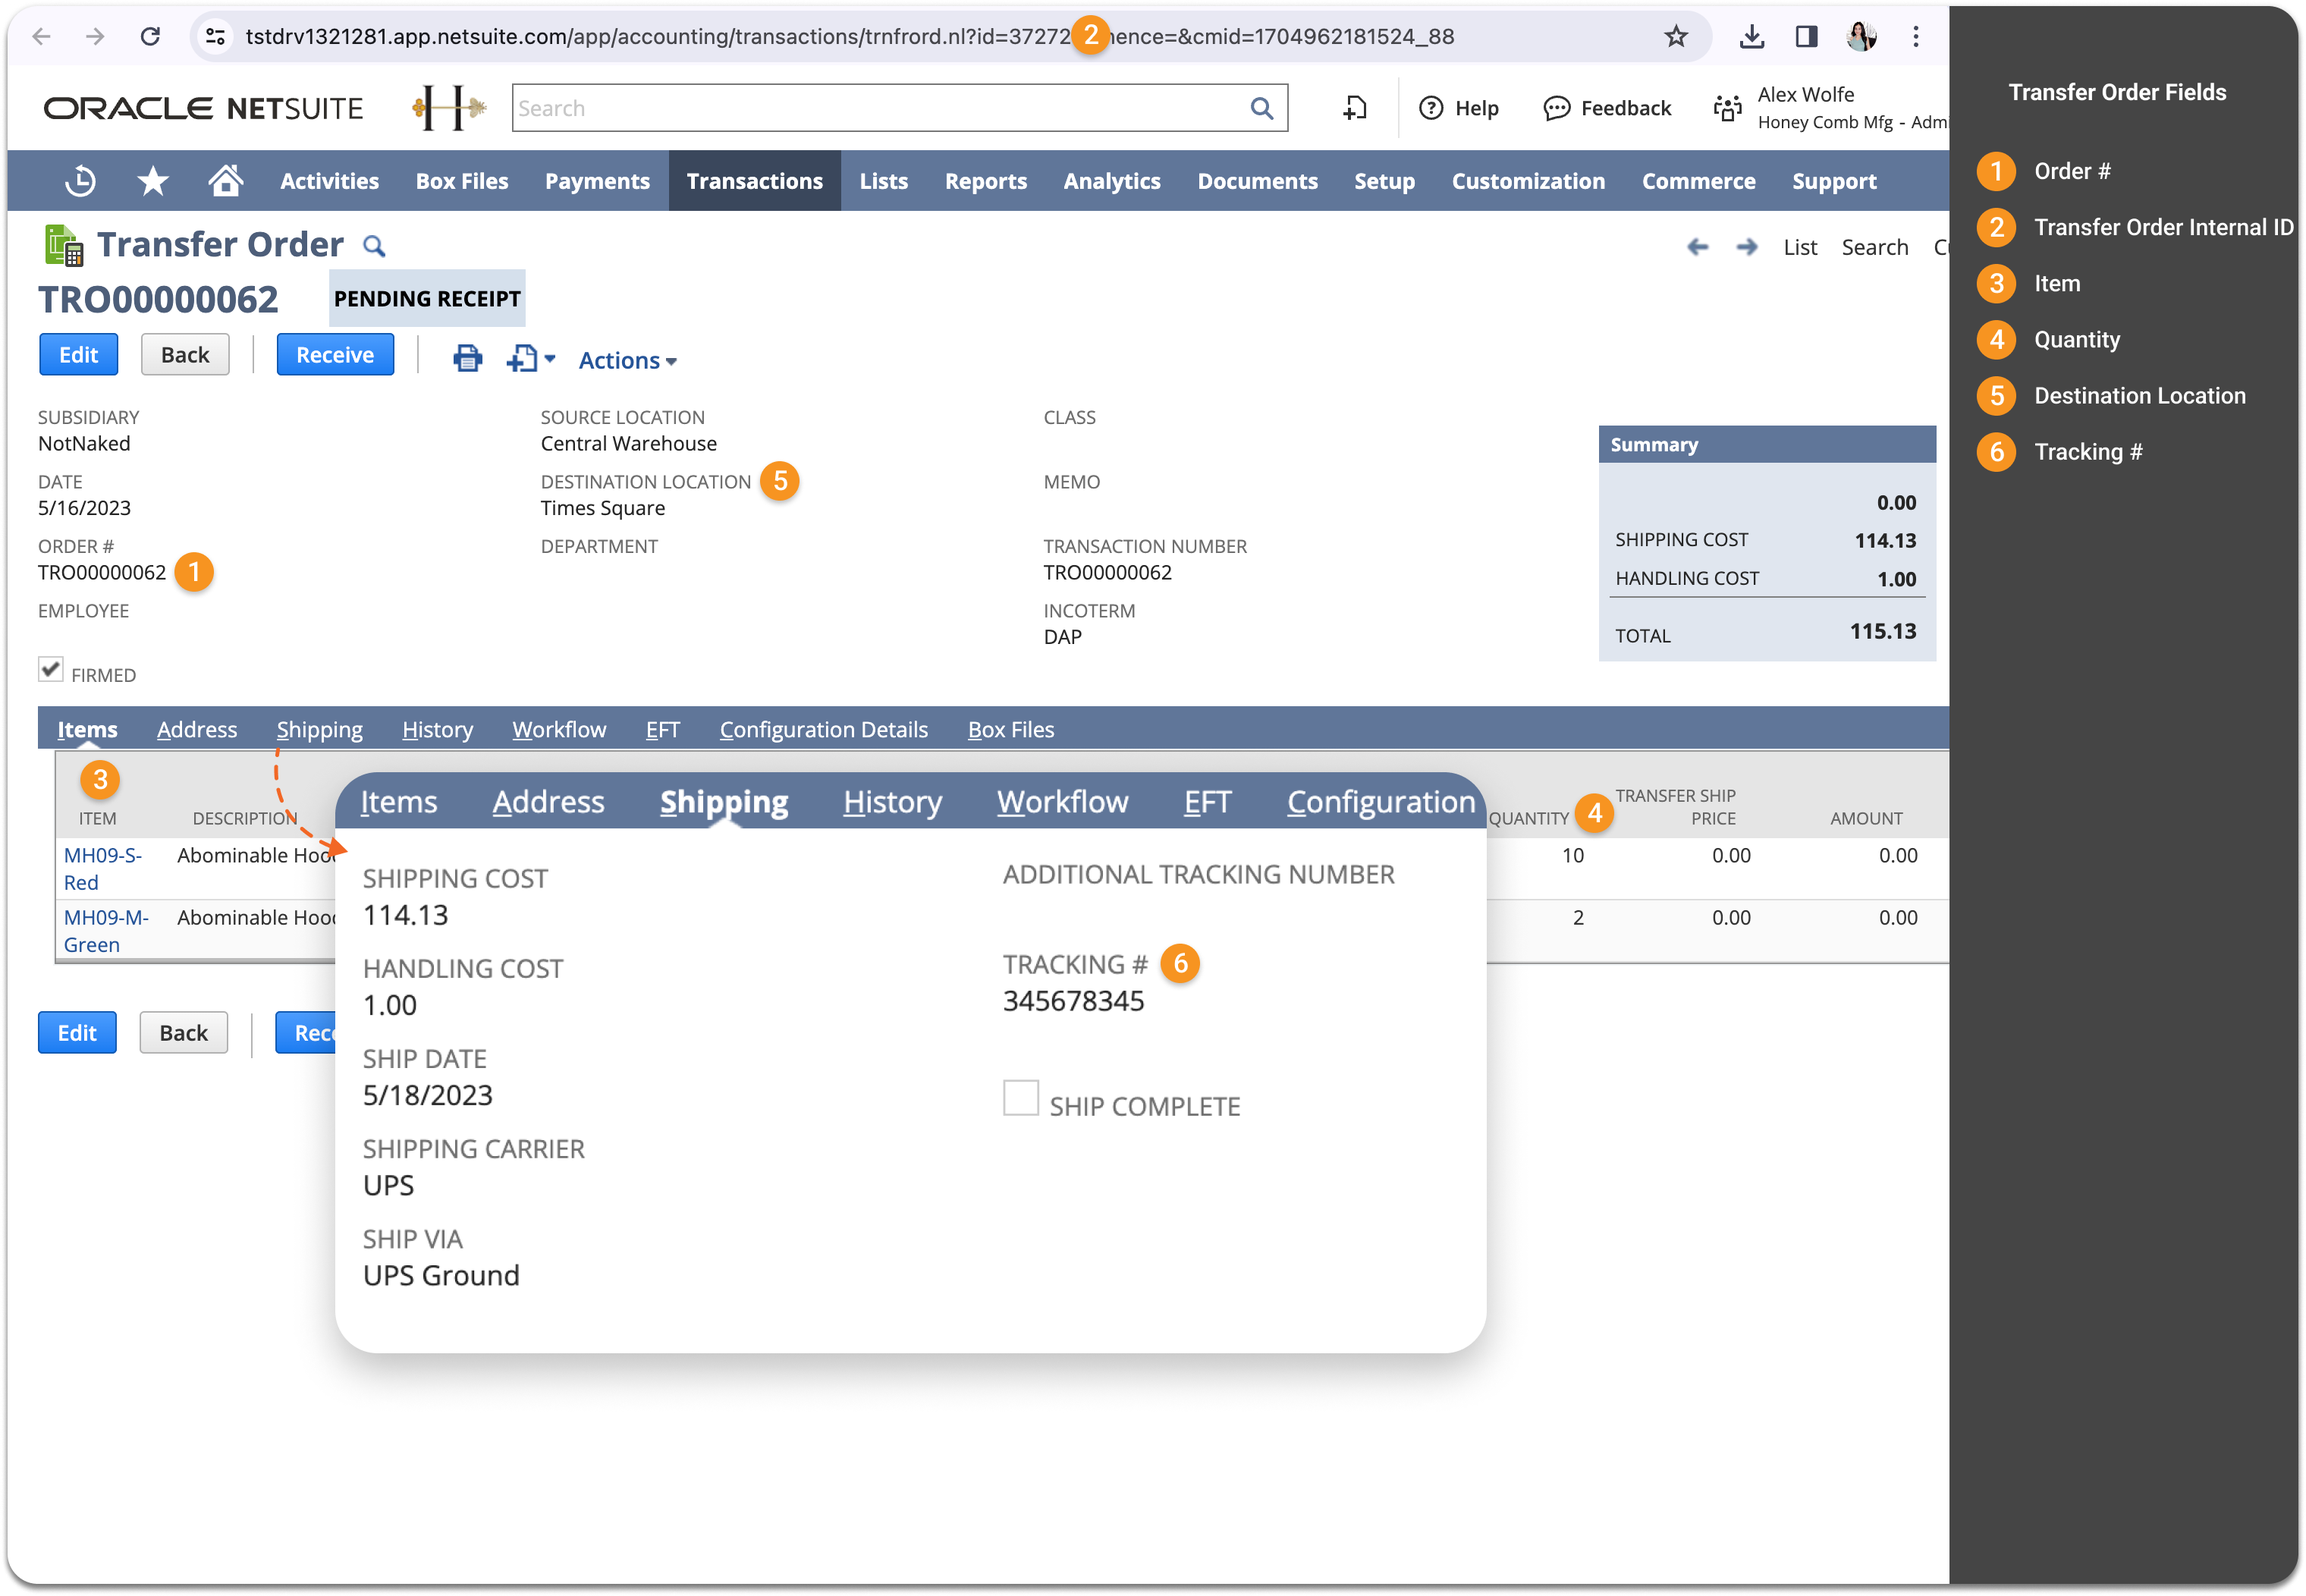
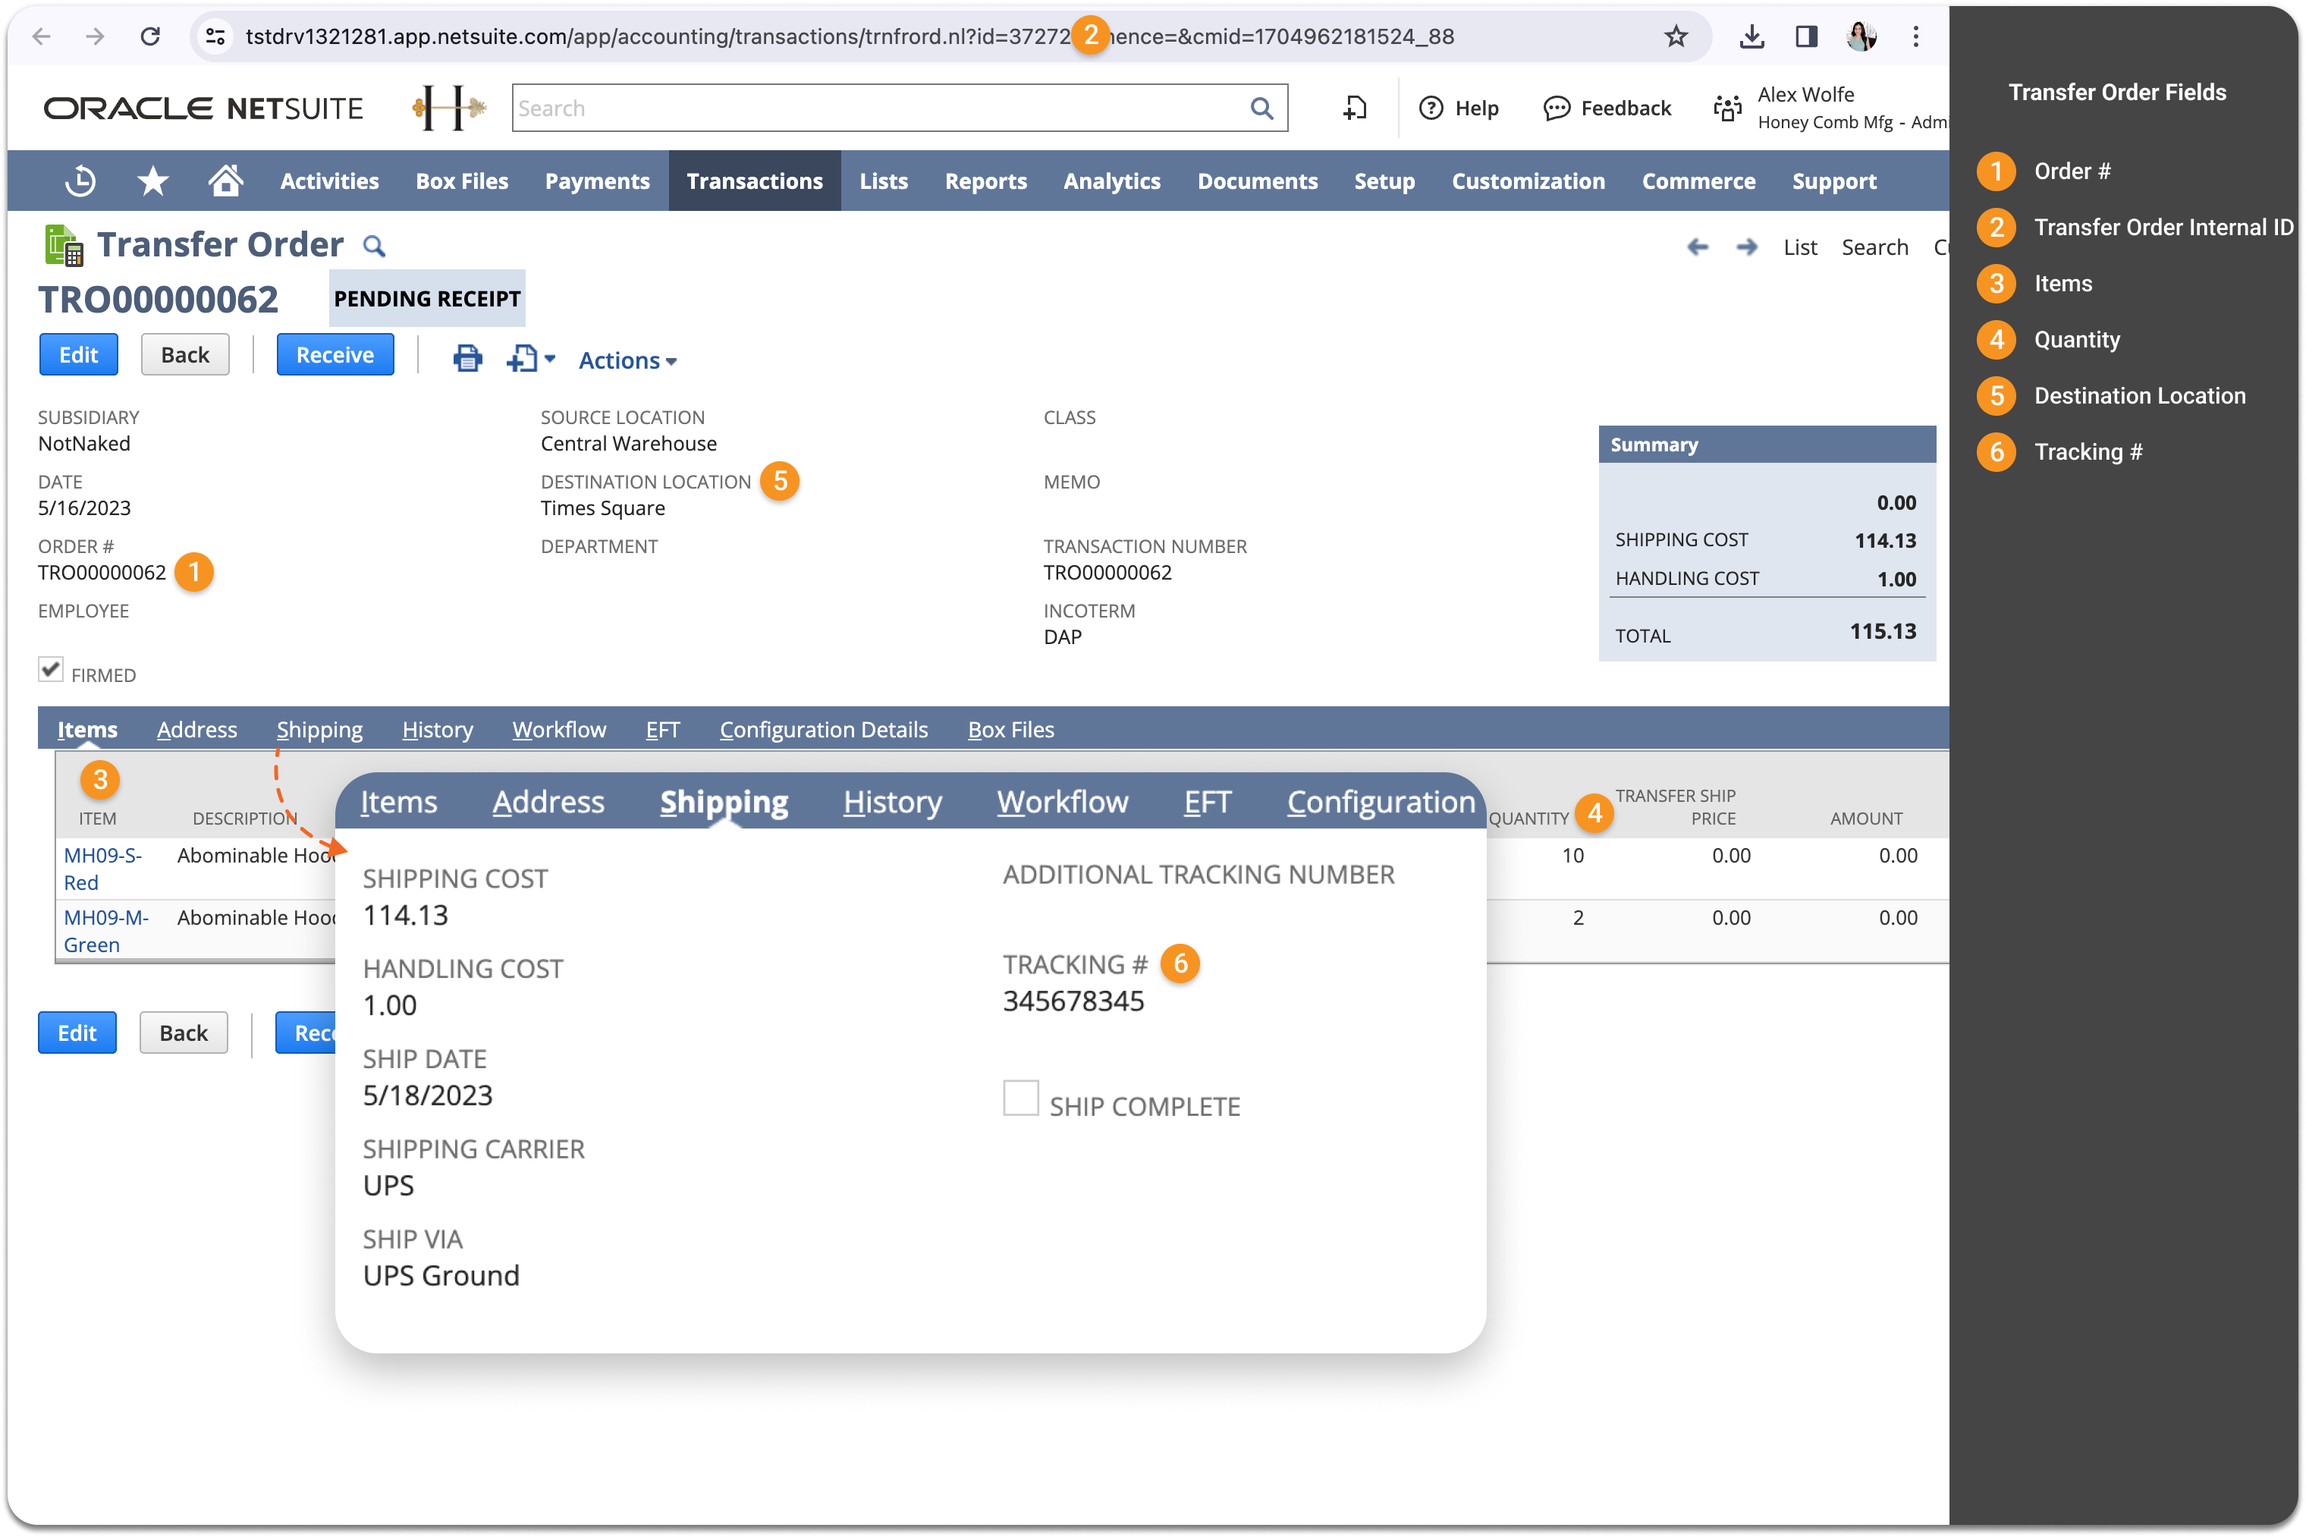
GITBOOK-44: added images for field mappings for TOs in HotWax Commerce and NetSuite

diff --git a/netsuite/Flows/transfer-order/TransferOrders.md b/netsuite/Flows/transfer-order/TransferOrders.md
@@ -30,7 +30,7 @@ The script runs periodically, typically every 15 minutes, to ensure it fetches o
 
 {% tabs %}
 {% tab title="Transfer Order Fields in NetSuite" %}
-<figure><img src="../../.gitbook/assets/TO mapping netsuite (1).png" alt=""><figcaption><p>Transfer Order Fields Mapping in HotWax Commerce</p></figcaption></figure>
+<figure><img src="../../.gitbook/assets/TO mapping netsuite.png" alt=""><figcaption><p>Transfer Order Fields Mapping in NetSuite</p></figcaption></figure>
 {% endtab %}
 
 {% tab title="Transfer Order Fields in HotWax Commerce" %}
